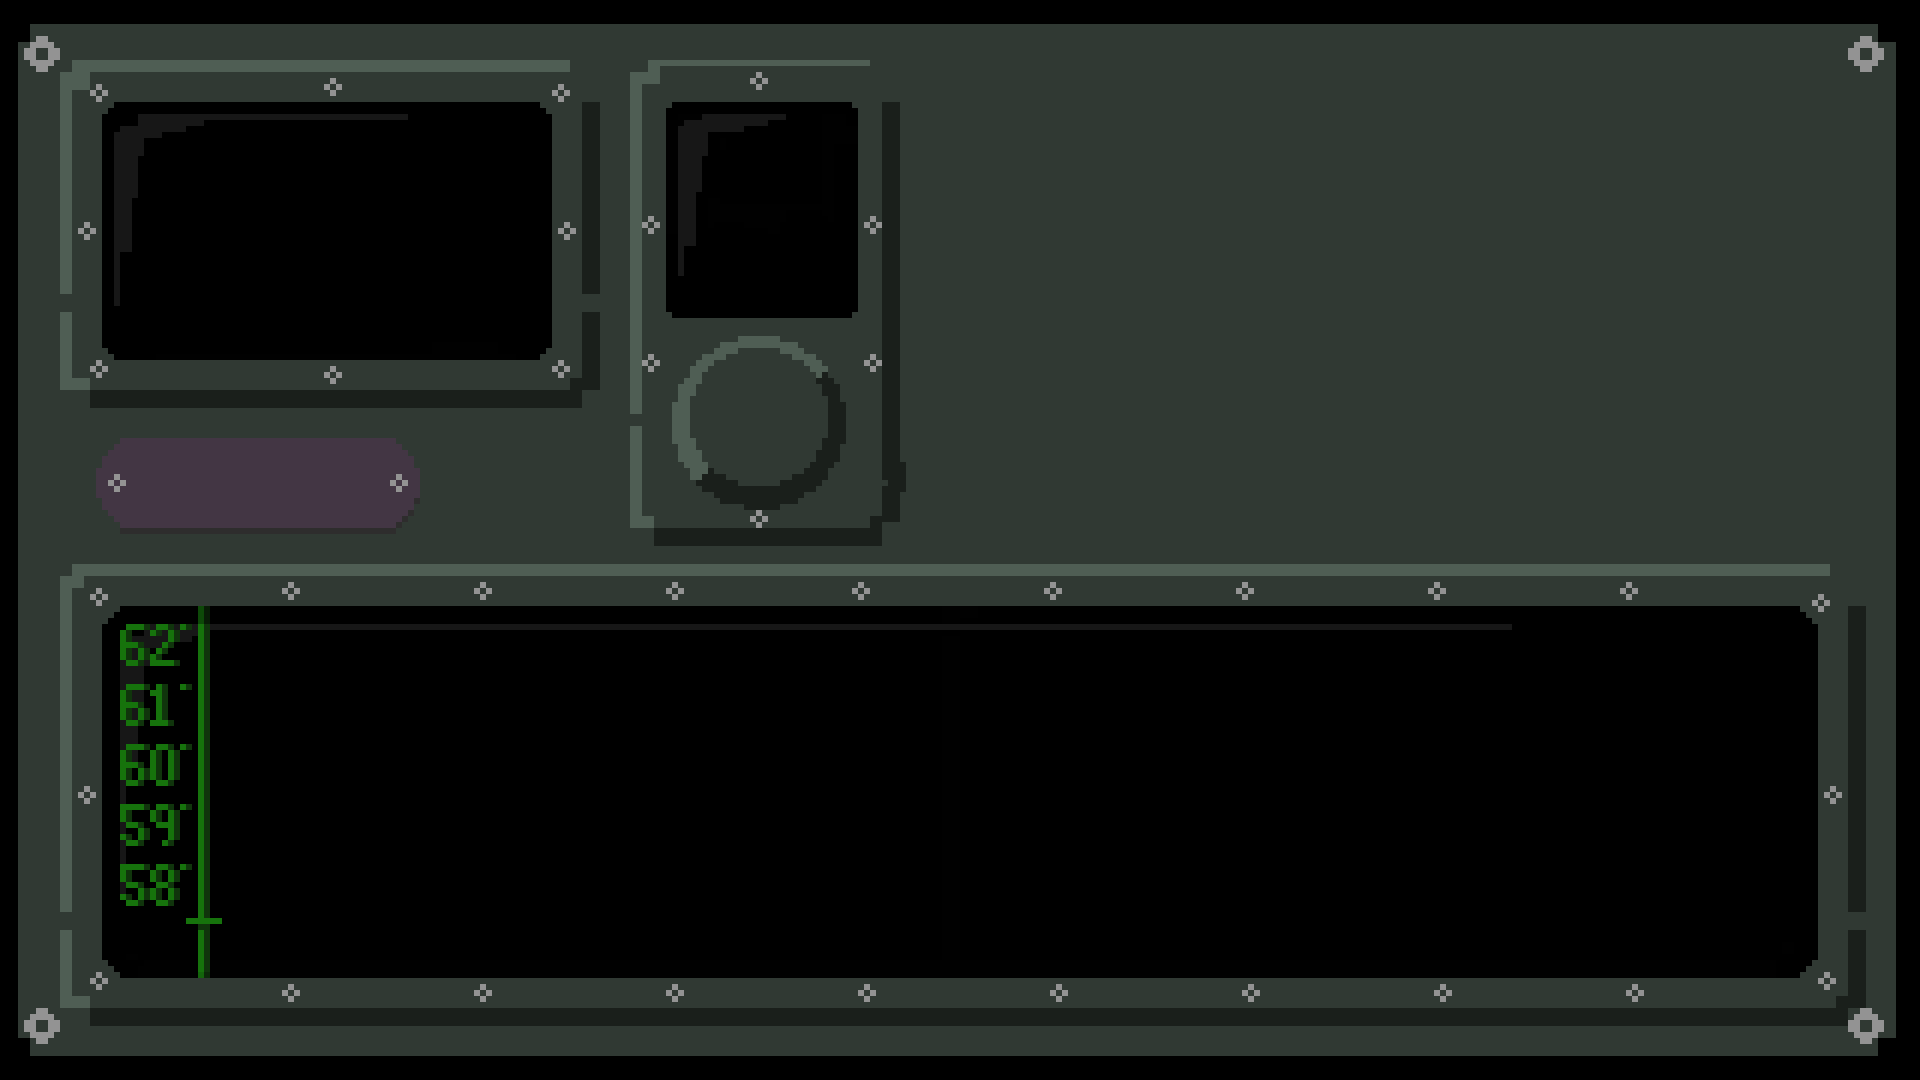
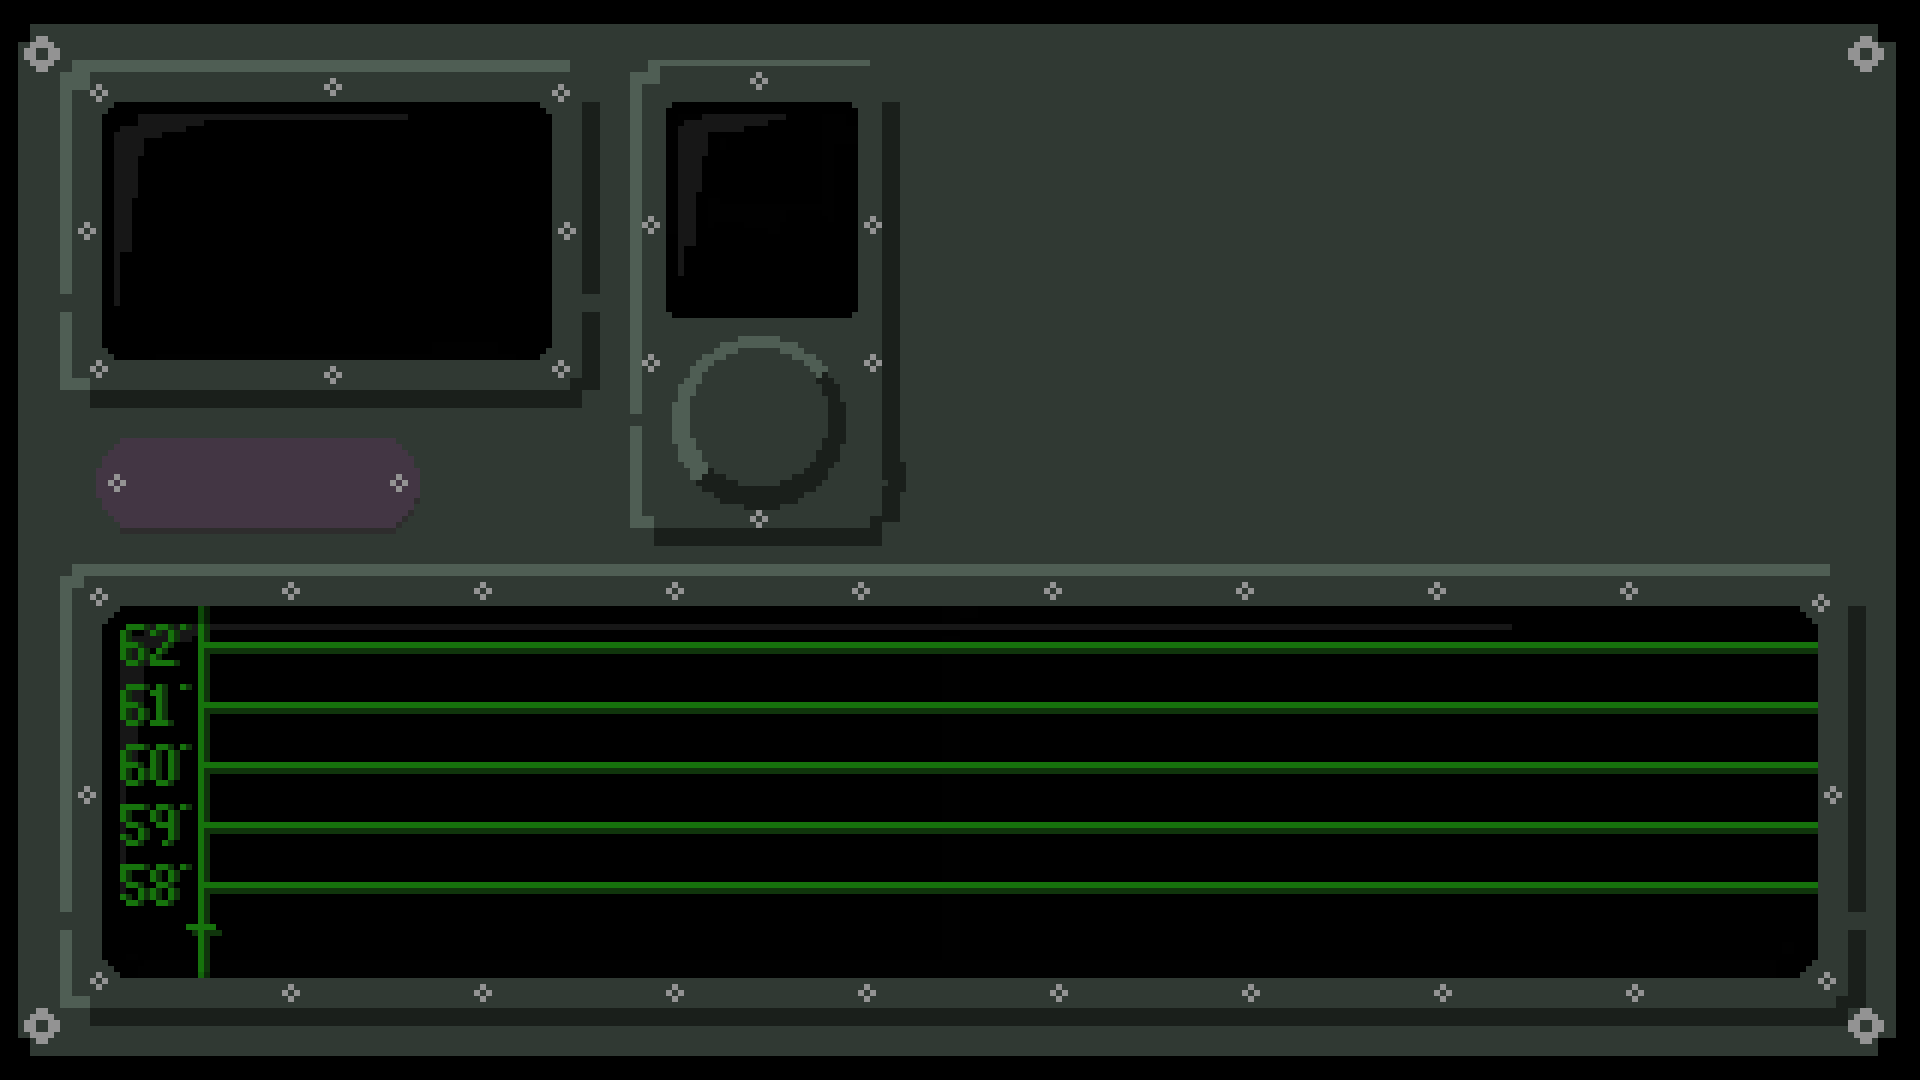
Draw coord. on map canvas + move

diff --git a/index.html b/index.html
@@ -8,30 +8,21 @@
     <link rel="stylesheet" href="./assets/css/style.css" />
   </head>
   <body>
+    <img id="dash" src="./assets/img/dash.png" alt="" />
+    <img id="sub" src="./assets/img/sub.gif" alt="" />
 
-    <img
-      src="./assets/img/dash.png"
-      alt=""
-      style="position: absolute; left: 0x; top: 0;"
-    />
-
-    <img
-      src="./assets/img/sub.gif"
-      alt=""
-      style="position: absolute; left: 200px; top: 480px;"
-    />
-
-    <canvas id="display" class="display" width="190" height="215"></canvas>
+    <canvas id="display" class="display" width="450" height="260"></canvas>
     <canvas id="count" class="count" width="190" height="215"></canvas>
     <canvas id="button" class="button" width="190" height="160"></canvas>
     <canvas id="booklet" class="booklet" width="960" height="522"></canvas>
     <canvas id="light" class="light" width="120" height="120"></canvas>
     <canvas id="map" class="map" width="1605" height="370"></canvas>
-    
+
     <script src="./assets/js/button.js"></script>
     <script src="./assets/js/book.js"></script>
     <script src="./assets/js/light.js"></script>
     <script src="./assets/js/count.js"></script>
+    <script src="./assets/js/map.js"></script>
     <script src="./assets/js/index.js"></script>
   </body>
 </html>

diff --git a/assets/css/style.css b/assets/css/style.css
@@ -1,39 +1,53 @@
-/* .game {
-    border: 1px solid #ccc;
-    background-color: #fff;
+#dash {
+  position: absolute;
+  left: 0;
+  top: 0;
+}
 
-} */
+#sub {
+  position: absolute;
+  left: 200px;
+  top: 470px;
+}
 
 .display {
-    border: 1px solid #ccc;
-    position: absolute; left: 0; top: 0;
+  border: 1px solid #ccc;
+  position: absolute;
+  left: 110px;
+  top: 100px;
 }
 
 .count {
-    border: 1px solid #ccc;
-    position: absolute; left: 675px; top: 110px;
+  border: 1px solid #ccc;
+  position: absolute;
+  left: 675px;
+  top: 110px;
 }
 
 .button {
-    border: 1px solid #ccc;
-    position: absolute; left: 675px; top: 335px;
+  border: 1px solid #ccc;
+  position: absolute;
+  left: 675px;
+  top: 335px;
 }
 
 .booklet {
-    border: 1px solid #ccc;
-    position: absolute; left: 910px; top: 30px;
+  border: 1px solid #ccc;
+  position: absolute;
+  left: 910px;
+  top: 30px;
 }
 
 .light {
-    border: 1px solid #ccc;
-    position: absolute; left: 444px; top: 426px;
+  border: 1px solid #ccc;
+  position: absolute;
+  left: 444px;
+  top: 426px;
 }
 
 .map {
-    border: 1px solid #ccc;
-    position: absolute; left: 220px; top:  615px;
-}
-
-body {
-    background-color: #ccc;
+  border: 1px solid #ccc;
+  position: absolute;
+  left: 220px;
+  top: 615px;
 }

diff --git a/assets/js/index.js b/assets/js/index.js
@@ -1,11 +1,17 @@
-// const canvas = document.querySelector('.game');
-// const ctx = canvas.getContext('2d');
-
-// const back = new Control();
 const book = new Book();
 const button = new Button();
 const light = new Light();
 const counter = new Count();
+const map = new Map();
+
+function moveMap() {
+  console.log("map: ticked");
+    map.ctx.clearRect(0, 0, map.canvas.width, map.canvas.height);
+    map.ctx.translate(-10, 0);
+    map._draw();
+}
+
+setInterval(moveMap, 2000);
 
 
 document.addEventListener('mousedown', mouseDown);
@@ -32,8 +38,7 @@ function mouseDown(event) {
   if (y > 375 && y < 470 && x > 700 && x < 835) {
     button.stateClick();
     button.tick();
-    if (counter.torpedos > 0)
-    {
+    if (counter.torpedos > 0) {
       counter.torpedos--;
       counter.tick();
     }
@@ -61,15 +66,9 @@ function mouseUp(event) {
 //   // } else {
 //   //   button.stateRest();
 //   //   button.tick();
-  // }
 // }
-
-
-
+// }
 
 // document.addEventListener('mousemove', (event) =>
 //   console.log(event.x, event.y)
 // );
-
-
-

diff --git a/assets/js/map.js b/assets/js/map.js
@@ -1,17 +1,32 @@
-// const canvas = document.querySelector('.map');
-// const ctx = canvas.getContext('2d');
-
-// ctx.beginPath();
-// ctx.moveTo(100, 100);
-// ctx.lineTo(200, 100);
-// ctx.lineTo(200, 200);
-// ctx.lineTo(100, 200);
-// ctx.lineTo(100, 100);
-// ctx.strokeStyle = "red";
-// ctx.stroke();
-// ctx.fillStyle = "green";
-// ctx.fill()
-
 class Map {
-  constructor() {}
+  canvas;
+  ctx;
+
+  constructor() {
+    this.canvas = document.querySelector('.map');
+    this.ctx = this.canvas.getContext('2d');
+    this._draw();
+  }
+
+  _draw() {
+    this.ctx.beginPath();
+
+    for (let y = 0; y < this.canvas.width*3; y += 80) {
+      this.ctx.moveTo(y, 0);
+      this.ctx.lineTo(y, 310);
+      // y to text
+      
+    }
+
+    this.ctx.lineWidth = 6;
+    this.ctx.strokeStyle = '#10350C';
+    this.ctx.stroke();
+  }
+
+  tick() {
+    console.log("map: ticked");
+    this.ctx.clearRect(0, 0, this.canvas.width, this.canvas.height);
+    this.ctx.translate(-10, 0);
+    this._draw();
+  }
 }

diff --git a/assets/js/book.js b/assets/js/book.js
@@ -1,7 +1,4 @@
 class Book {
-  // x = 1920 - 160 * 6 - 50;
-  // y = 0;
-
   canvas;
   ctx;
 
@@ -15,7 +12,6 @@ class Book {
   _sourceX = 0;
 
   constructor() {
-    // console.log('book: constructor');
     this.canvas = document.querySelector('.booklet');
     this.ctx = this.canvas.getContext('2d');
 
@@ -23,8 +19,6 @@ class Book {
   }
 
   _loadImage() {
-    // console.log('book: _loadImage');
-
     this._image = new Image();
 
     this._image.onload = () => {
@@ -34,8 +28,6 @@ class Book {
     this._image.src = this._imageLocation;
   }
   _draw() {
-    // console.log('book: _draw');
-
     const _sourceY = this._spriteHeight * this._currentPage;
 
     this.ctx.beginPath();
@@ -53,7 +45,6 @@ class Book {
   }
 
   tick() {
-    // console.log("book: tick")
     this._draw();
   }
 

diff --git a/assets/js/button.js b/assets/js/button.js
@@ -1,13 +1,12 @@
 class Button {
-  _press = 0;
   canvas;
   ctx;
-  // x = 660;
-  // y = 318;
 
   //  rest - 0
   // hover - 1
   // press - 2
+
+  _press = 0;
 
   _image;
   _imageLocation = './assets/img/button.png';

diff --git a/assets/js/light.js b/assets/js/light.js
@@ -1,13 +1,10 @@
 class Light {
-  // x = 444;
-  // y = 426;
-
-  //off - 0
-  // on - 1
-
   canvas;
   ctx;
 
+  //off - 0
+  // on - 1
+  
   _state = 0;
 
   _image;
